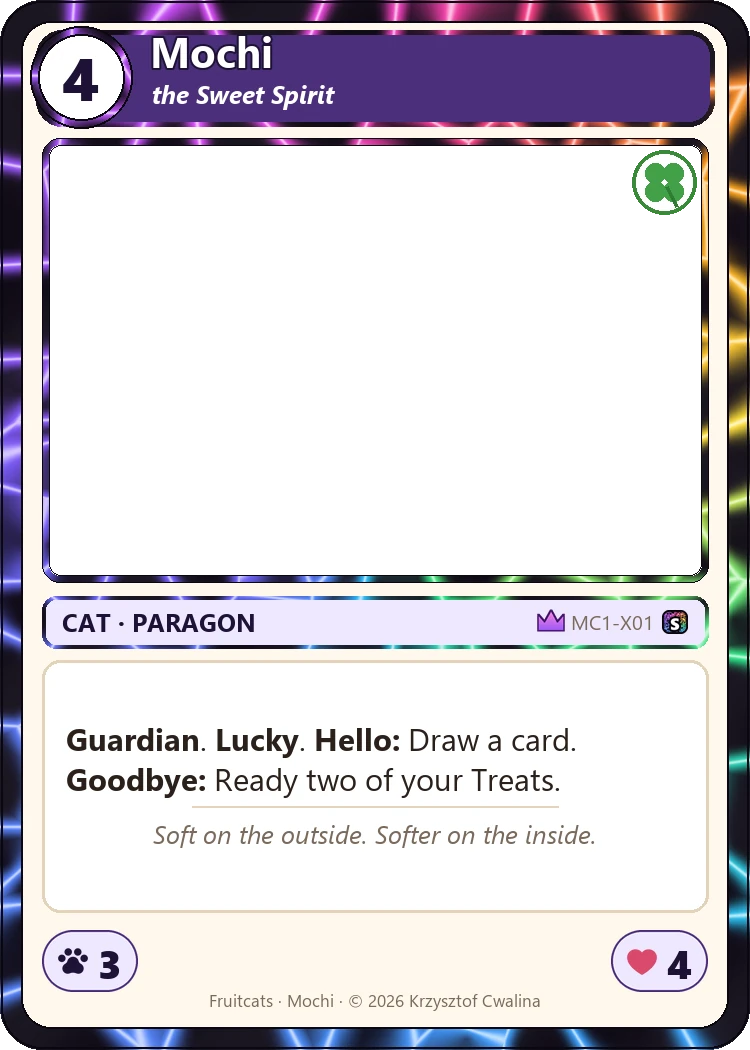
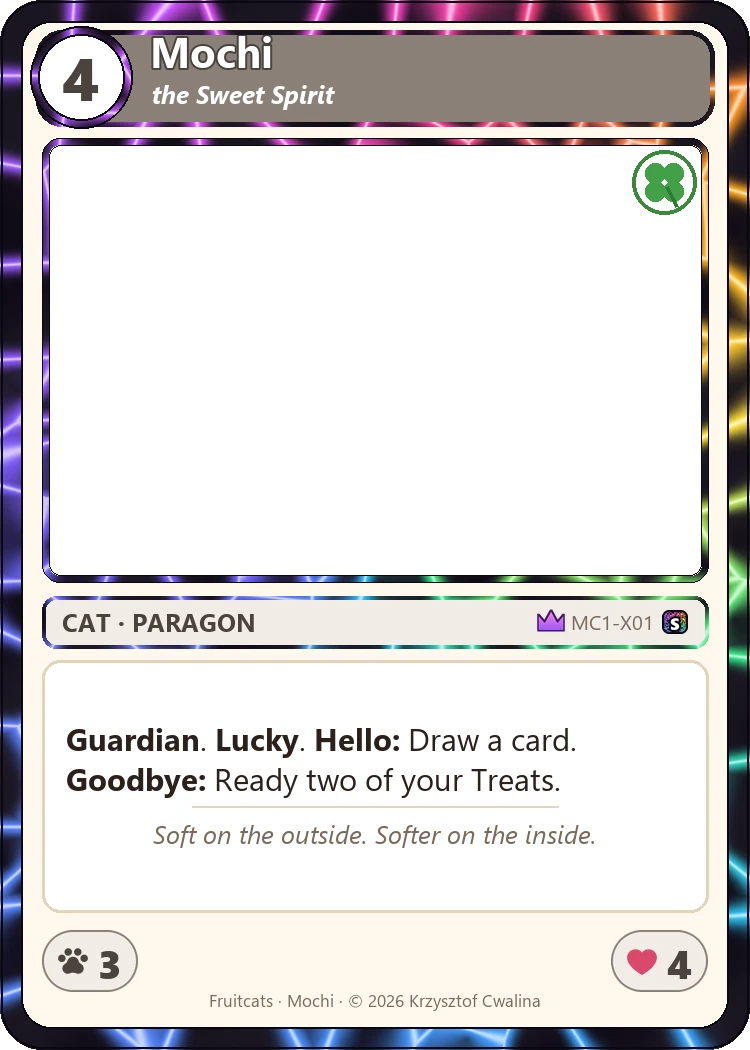
Studio: artists pick the frame colour for marked cards; Paragon has no colour of its own (its artist always picks); fix the picture page's layout class renamed by the image wording change

diff --git a/apps/web/src/studio/main.ts b/apps/web/src/studio/main.ts
@@ -17,7 +17,7 @@ import {
   FIELD_NAMES, STATE_NAMES, TIER_NAMES, keyOf, nextAction, nextPicture, overall, stateOf, steps, versionsOf,
   type Brief, type BriefPicture, type State,
 } from './brief';
-import { DEVICES, LOCK_CLOCK, announcementPreview, cardPreview, finishesOf, gamePreview, pawtraitPreview, wallpaper } from './previews';
+import { DEVICES, LOCK_CLOCK, PALETTES, announcementPreview, cardPreview, finishesOf, framePalettes, gamePreview, pawtraitPreview, wallpaper } from './previews';
 import { renderSignIn, signInClick, signInEnter, signInInput } from './signin';
 import { STUDIO_TERMS, STUDIO_TERMS_VERSION } from './terms';
 import './studio.css';
@@ -66,6 +66,8 @@ const S = {
   error: '',
   /** Signed in, but the Studio's server didn't answer. */
   unreachable: false,
+  /** Frame colours picked on this computer, before the server has them (by set/key). */
+  framePick: new Map<string, string>(),
   /** Which comment the walkthrough shows. */
   commentAt: 0,
   /** The terms screen: the "18 or older" box. */
@@ -325,7 +327,38 @@ function render() {
   void fillWallpapers();
 }
 
+/** For cards whose artist chooses the frame colour: the colour to show, picked or saved or the brief's starting one. */
+function syncPalettes() {
+  framePalettes.clear();
+  for (const [code, brief] of S.briefs) {
+    const view = S.views.get(code);
+    for (const p of brief.pictures) {
+      if (!p.frameChoice) continue;
+      const key = keyOf(p), id = `${code}/${key}`;
+      const saved = view?.pictures[key]?.frame;
+      const palette = S.framePick.get(id) ?? (saved === 'own' ? '' : saved) ?? p.framePalette;
+      if (palette) framePalettes.set(id, palette);
+    }
+  }
+}
+
+/** The frame colours for a card whose artist chooses them: a row of swatches. */
+function frameChooser(code: string, p: BriefPicture): string {
+  if (!p.frameChoice) return '';
+  const key = keyOf(p), current = framePalettes.get(`${code}/${key}`);
+  // Paragon cards have no colour of their own: the artist always picks. Other marked cards may keep their family's.
+  const own = p.family !== 'Paragon';
+  const text = own
+    ? '<b>Frame colour: you may change it.</b> This card isn’t tied to a deck’s look: keep its colour, or pick the one that suits your image.'
+    : current ? '<b>Frame colour: your pick.</b> Change it any time, to whatever suits your image.'
+      : '<b>Pick the frame colour for this card.</b> It has no colour of its own: choose the one that suits your image. Until you do, it’s shown in grey.';
+  return `<div class="frame-choice ${!own && !current ? 'unpicked' : ''}"><p>${text}</p>
+    <div class="swatches">${own ? `<button class="swatch family ${current ? '' : 'on'}" title="The card’s own colour" aria-label="The card’s own colour" data-click="frame:${key}:"><span>Own</span></button>` : ''}${PALETTES.map(([name, main, dark]) => `<button class="swatch ${name === current ? 'on' : ''}" title="${name}" aria-label="${name}"
+      style="background:linear-gradient(135deg, ${main} 55%, ${dark} 55%)" data-click="frame:${key}:${name}"></button>`).join('')}</div></div>`;
+}
+
 function page(): string {
+  syncPalettes();
   if (S.fatal) return `<main class="empty"><h1>Sorry</h1><p>${esc(S.fatal)}</p></main>`;
   if (S.booting) return `<main class="empty"><div class="spinner"></div></main>`;
   if (!S.me && !S.guest && S.unreachable && signedIn()) {
@@ -511,7 +544,7 @@ function wizardPage(code: string, chosen?: string): string {
         <div class="wz-upload">${fileNeeds}${uploadBox(current, versions)}</div>
       </div>
     </section>
-    ${pic.url ? `<section class="wz-card"><h2>How it looks</h2>${versionStrip(key, versions, pic)}${previewTabs(code, current, pic)}</section>` : ''}
+    ${pic.url ? `<section class="wz-card"><h2>How it looks</h2>${frameChooser(code, current)}${versionStrip(key, versions, pic)}${previewTabs(code, current, pic)}</section>` : ''}
     ${versions.length ? commentsPanel(code, current, pic.version) : ''}
   </main></div>`;
 }
@@ -665,7 +698,7 @@ function picturePage(code: string, key: string): string {
   const stepInfo = { open: at < 0 || all[at].open, after: at > 0 ? all[at - 1].milestone.title : '' };
   const i = brief.pictures.indexOf(p);
   const prev = brief.pictures[i - 1], next = brief.pictures[i + 1];
-  return `<main class="image">
+  return `<main class="picture">
     <aside class="brief">
       <div class="brief-head"><small>${esc(TIER_NAMES[p.tier])}${p.style ? ` · ${p.style === 'sticker' ? 'Sticker style' : 'Painted scene'}` : ''}${p.main ? ' · Main image' : ''}</small>
         <h1>${esc(title(p))}</h1>${sideLabel(p) ? `<p class="muted">${sideLabel(p)} form</p>` : ''}${stateChip(state)}</div>
@@ -731,7 +764,7 @@ function uploadBox(p: BriefPicture, versions: Version[]): string {
     const onCard = p.kind === 'card' || p.kind === 'token'
       ? `<div class="local-card">${cardPreview(code, key, finishesOf(p).at(-1)!.finish, local.url, 250)}</div>` : '';
     return `<div class="local">
-      ${onCard}
+      ${onCard}${frameChooser(code, p)}
       <p><b>${esc(local.file.name)}</b> · ${kb(local.file.size)}</p>
       <ul class="checks">${list.notes.map((n) => `<li>${esc(n)}</li>`).join('')}</ul>
       ${list.fix ? `<p class="fix">${esc(list.fix)}</p>` : ''}
@@ -824,7 +857,7 @@ function previewTabs(code: string, p: BriefPicture, pic: ReturnType<typeof shown
     const finishes = finishesOf(p);
     const finish = S.finish.get(key) ?? finishes.at(-1)!.finish;
     body = `${finishes.length > 1 ? `<div class="seg small">${finishes.map((f) => `<button class="${f.finish === finish ? 'on' : ''}" data-click="finish:${key}:${f.finish}">${f.label}</button>`).join('')}</div>` : ''}
-      <div class="card-stage">${cardPreview(code, key, finish, url, 420, pinsFor(code, key, pic.version))}</div>
+      ${frameChooser(code, p)}<div class="card-stage">${cardPreview(code, key, finish, url, 420, pinsFor(code, key, pic.version))}</div>
       <p class="pv-note">The card shows your whole image, shrunk into its window. The rounded corners and the border cover a few pixels at the edges.</p>`;
   } else if (tab === 'game') body = gamePreview(p, url, code, key);
   else {
@@ -1022,6 +1055,14 @@ async function act(action: string) {
       return;
     }
     case 'done': await work(() => api.markDone(code, args[0], args[1] === '1')); await refresh(code); render(); return;
+    case 'frame': {
+      // An empty palette is the card's own colour (its family's).
+      const id = `${code}/${args[0]}`, palette = args[1] ?? '';
+      S.framePick.set(id, palette);
+      render();
+      if (S.me && !S.guest) { try { await api.setFrame(code, args[0], palette || 'own'); await refresh(code); } catch (e) { S.error = api.explain(e); render(); } }
+      return;
+    }
     case 'walk': S.commentAt = Math.max(0, S.commentAt + Number(args[0])); render(); return;
     case 'walkdone': await work(() => api.markDone(code, args[0], true)); await refresh(code); render(); return;
     case 'walkreply': {

diff --git a/apps/api/src/studio/studio.ts b/apps/api/src/studio/studio.ts
@@ -17,6 +17,7 @@
 //   POST /v1/studio/{set}/pictures/{key}/comments        { text, version?, pin?: {x, y}, replyTo? }
 //   POST /v1/studio/{set}/comments/{id}                  { done }  mark a comment done (or not)
 //   POST /v1/studio/{set}/pictures/{key}/review          owner: { state: changes | sketch-ok | approved | waiting }
+//   POST /v1/studio/{set}/pictures/{key}/frame           { palette }  the frame colour the artist chose (cards that let them)
 //   POST /v1/studio/{set}/milestones/{id}                owner: { open } open a step early, or close it again
 //   POST /v1/studio/{set}/suggestions                    { picture, field, value, why? }
 //   POST /v1/studio/{set}/suggestions/{id}               owner: { state: accepted | declined, reply? }
@@ -27,7 +28,7 @@
 //
 // Rows, all in one table (partition | row key):
 //   artists|{set} | {userId}      invites | {code}      versions|{set} | {key}|{version}      states|{set} | {key}
-//   comments|{set} | {id}         suggestions|{set} | {id}      milestones|{set} | {id}      memberships | {userId}|{set}      terms | {userId}
+//   comments|{set} | {id}         suggestions|{set} | {id}      milestones|{set} | {id}      memberships | {userId}|{set}      terms | {userId}      frames|{set} | {key}
 // Pictures are blobs named {set}/{key}/{version}.{ext}, where a version is its upload time and the start of its hash.
 
 import { randomBytes, timingSafeEqual } from 'node:crypto';
@@ -114,9 +115,9 @@ export function studio(opt: StudioOptions) {
   // ── The set, as the Studio shows it ────────────────────────────────────────────────────────────
 
   async function setView(set: string) {
-    const [versions, states, comments, suggestions, milestones] = await Promise.all(
-      ['versions', 'states', 'comments', 'suggestions', 'milestones'].map((t) => store.list(`${t}|${set}`)));
-    const pictures: Record<string, { state: string; stateAt?: string; stateBy?: string; versions: Row[] }> = {};
+    const [versions, states, comments, suggestions, milestones, frames] = await Promise.all(
+      ['versions', 'states', 'comments', 'suggestions', 'milestones', 'frames'].map((t) => store.list(`${t}|${set}`)));
+    const pictures: Record<string, { state: string; stateAt?: string; stateBy?: string; frame?: string; versions: Row[] }> = {};
     const picture = (key: string) => (pictures[key] ??= { state: 'none', versions: [] });
     for (const v of versions) {
       const [key, version] = v.rk.split('|');
@@ -124,6 +125,7 @@ export function studio(opt: StudioOptions) {
       picture(key).versions.push({ ...row, id: version });
     }
     for (const s of states) Object.assign(picture(s.rk), { state: s.state, stateAt: s.at, stateBy: s.byName });
+    for (const f of frames) picture(f.rk).frame = String(f.palette);
     return {
       set,
       pictures,
@@ -261,6 +263,13 @@ export function studio(opt: StudioOptions) {
         await store.insert(`comments|${set}`, id, row);
         log('studio.commented', { set, key: b, author: row.author });
         return send(res, 201, { ...row, id });
+      }
+      if (cc === 'frame' && rest.length === 3 && method === 'POST') {
+        if (c.kind !== 'account') throw new HttpError(403, 'people_only');
+        const { palette } = await readJson(req) as { palette?: string };
+        if (typeof palette !== 'string' || !/^[a-z]{2,20}$/.test(palette)) throw new HttpError(422, 'bad_palette');
+        await store.upsert(`frames|${set}`, b, { palette, at: new Date().toISOString(), by: c.id, byName: c.name });
+        return send(res, 200, { palette });
       }
       if (cc === 'review' && rest.length === 3 && method === 'POST') {
         if (!owner || c.kind !== 'account') throw new HttpError(403, 'owner_only');

diff --git a/tools/studio.ts b/tools/studio.ts
@@ -50,7 +50,7 @@ async function call(path: string, init: { method?: string; json?: unknown } = {}
 const json = async <T>(path: string, init?: { method?: string; json?: unknown }) => (await call(path, init)).json() as Promise<T>;
 
 interface Version { id: string; kind: string; format: string; width: number; height: number; at: string; byName: string; note?: string }
-interface View { pictures: Record<string, { state: string; versions: Version[] }>; comments: { id: string; picture: string; author: string; authorName: string; text: string; at: string; done: boolean }[] }
+interface View { pictures: Record<string, { state: string; frame?: string; versions: Version[] }>; comments: { id: string; picture: string; author: string; authorName: string; text: string; at: string; done: boolean }[] }
 
 /** A set's folder in content/, by its code. */
 function setFolder(code: string): string {
@@ -136,6 +136,9 @@ async function main() {
     const brief = JSON.parse(readFileSync(join(folder, 'art', 'brief.json'), 'utf8')) as { pictures: { file: string; kind: string }[] };
     const view = await json<View>(set);
     let count = 0;
+    const setFile = join(folder, 'set.json');
+    const setData = JSON.parse(readFileSync(setFile, 'utf8')) as { cards: { id: string; frame?: string }[] };
+    let framesChanged = false;
     for (const p of brief.pictures) {
       const key = p.file.replace(/\.[a-z]+$/, '');
       const pic = view.pictures[key];
@@ -155,7 +158,16 @@ async function main() {
       }
       console.log(`${key}: version ${v.id} → ${relative(ROOT, out)}`);
       count++;
+      // A frame colour the artist chose goes into the card's data, so the finished card is drawn in it.
+      const card = setData.cards.find((c) => `${c.id}` === key || key.startsWith(`${c.id}-`));
+      const frame = pic.frame && pic.frame !== 'own' ? pic.frame : undefined;
+      if (card && card.frame !== frame) {
+        if (frame) card.frame = frame; else delete card.frame;
+        framesChanged = true;
+        console.log(`${card.id}: frame colour ${frame ?? 'its family’s own'}`);
+      }
     }
+    if (framesChanged) writeFileSync(setFile, `${JSON.stringify(setData, null, 2)}\n`);
     if (!count) { console.log('No approved pictures yet.'); return; }
     execFileSync('python', [join(ROOT, 'tools', 'compose_cards.py'), '--set', set], { stdio: 'inherit' });
     console.log(`\n${count} picture(s) pulled. Review with git diff, then npm run check-set -- ${set}.`);

diff --git a/apps/web/src/studio/previews.ts b/apps/web/src/studio/previews.ts
@@ -23,8 +23,20 @@ export function finishesOf(p: BriefPicture): { finish: string; label: string }[]
   return list;
 }
 
-const frameUrl = (code: string, key: string, finish: string) =>
-  `${BASE}cards/${code}/frames/${finish === 'standard' ? '' : `${finish}/`}${key}.webp`;
+/** Frame colours an artist may choose (compose_cards.py PALETTES): the name, and the colours shown on its swatch. */
+export const PALETTES: [string, string, string][] = [
+  ['midnight', '#2B3A55', '#141C2B'], ['sky', '#3B82C4', '#1D4A78'], ['violet', '#4A2F7A', '#1E1236'], ['berry', '#D6336C', '#8F1D46'],
+  ['orchard', '#D64545', '#8E2A2A'], ['pepper', '#D7261E', '#5A0E0A'], ['tropical', '#F2780C', '#A24E05'], ['citrus', '#F29F05', '#A86400'],
+  ['gold', '#C8961E', '#7A5A0C'], ['garden', '#5FA84D', '#3B7430'], ['melon', '#3FA66B', '#25714A'], ['ink', '#3A3A3A', '#161616'],
+];
+
+/** The frame colour each card is shown in, for cards whose artist chooses it: set by the Studio as it draws a page. */
+export const framePalettes = new Map<string, string>();
+
+const frameUrl = (code: string, key: string, finish: string) => {
+  const palette = framePalettes.get(`${code}/${key}`);
+  return `${BASE}cards/${code}/frames/${palette ? `p-${palette}/` : ''}${finish === 'standard' ? '' : `${finish}/`}${key}.webp`;
+};
 
 /** The picture on its card. With no picture yet, the window shows where it will go. */
 export function cardPreview(code: string, key: string, finish: string, art: string | null, width: number, pins = ''): string {

diff --git a/apps/web/src/studio/api.ts b/apps/web/src/studio/api.ts
@@ -53,7 +53,7 @@ export interface SetView {
   /** The signed-in account is this project's artist (a reviewer can be one too, e.g. to practise). */
   artist?: boolean;
   set: string;
-  pictures: Record<string, { state: string; stateAt?: string; stateBy?: string; versions: Version[] }>;
+  pictures: Record<string, { state: string; stateAt?: string; stateBy?: string; frame?: string; versions: Version[] }>;
   comments: Comment[];
   suggestions: Suggestion[];
   milestones: Record<string, boolean>;
@@ -110,6 +110,7 @@ export const setView = (set: string) => call<SetView>(set);
 export const comment = (set: string, key: string, body: { text: string; version?: string; pin?: { x: number; y: number }; replyTo?: string }) =>
   call<Comment>(`${set}/pictures/${key}/comments`, { json: body });
 export const markDone = (set: string, id: string, done: boolean) => call<Comment>(`${set}/comments/${id}`, { json: { done } });
+export const setFrame = (set: string, key: string, palette: string) => call<{ palette: string }>(`${set}/pictures/${key}/frame`, { json: { palette } });
 export const review = (set: string, key: string, state: string) => call(`${set}/pictures/${key}/review`, { json: { state } });
 export const openStep = (set: string, id: string, open: boolean) => call(`${set}/milestones/${id}`, { json: { open } });
 export const suggest = (set: string, body: { picture: string; field: string; value: string; why: string }) =>

diff --git a/apps/web/src/studio/studio.css b/apps/web/src/studio/studio.css
@@ -532,3 +532,14 @@ main.home, main.picture, main.artists, main.sets { animation: fade 0.2s ease-out
 .name-note { margin: -4px 0 10px; font-size: 14px; color: var(--ink-2); font-style: italic; }
 .kind-q { margin: 10px 0 6px; font-size: 15px; }
 .kind-seg.unset { outline: 2px solid #f6c79f; outline-offset: 2px; }
+
+/* The frame colour an artist chooses */
+.frame-choice { margin: 4px 0 14px; }
+.frame-choice p { margin: 0 0 8px; font-size: 14px; color: var(--ink-2); }
+.preview .frame-choice p { color: #eadbc8; }
+.swatches { display: flex; flex-wrap: wrap; gap: 8px; }
+.swatch { width: 30px; height: 30px; border-radius: 50%; border: 2px solid white; box-shadow: 0 1px 3px rgba(0, 0, 0, 0.25); cursor: pointer; padding: 0; }
+.swatch.on { outline: 3px solid var(--accent); outline-offset: 2px; }
+.swatch.family { background: var(--card); color: var(--ink-2); font: 800 9px Nunito, sans-serif; display: grid; place-items: center; }
+.frame-choice.unpicked { background: #fff7ec; border: 2px solid #f6c79f; border-radius: 12px; padding: 10px 14px; }
+.preview .frame-choice.unpicked p { color: var(--ink); }

diff --git a/content/check-set.ts b/content/check-set.ts
@@ -134,6 +134,10 @@ function checkSet(set: ContentSet, games: number): Report {
       if (!steps.has(String(p.milestone))) r.errors.push(`Art brief: ${p.file} is in step ${String(p.milestone)}, which isn't one of its milestones.`);
       if (!Array.isArray(p.size) || p.size.length !== 2) r.errors.push(`Art brief: ${p.file} needs a size, [width, height].`);
     }
+    const pickFamilies = new Set(Object.entries(data.families ?? {}).filter(([, f]) => (f as { frameChoice?: boolean }).frameChoice).map(([n]) => n));
+    for (const c of cards.filter((x) => pickFamilies.has(x.family)))
+      if (!pictures.some((p) => p.card === c.id && (p as { frameChoice?: boolean }).frameChoice))
+        r.errors.push(`Art brief: ${c.id} is ${c.family}, whose artist picks the frame colour; give its picture "frameChoice": true.`);
     const noFrame = faces.filter((f) => briefed.has(f) && !existsSync(join(art, 'cards', 'frames', `${f}.webp`)));
     if (noFrame.length) r.warnings.push(`No Studio frame for ${noFrame.join(', ')} (python tools/compose_cards.py --set ${code.toLowerCase()} --frames).`);
   }

diff --git a/apps/api/src/studio/studio.test.ts b/apps/api/src/studio/studio.test.ts
@@ -158,6 +158,13 @@ describe('studio', () => {
     expect((await call(OWNER, '/bp1/artists')).body.artists).toContainEqual(expect.objectContaining({ id: 'wanda', email: 'wanda@example.com' }));
   });
 
+  it('keeps the frame colour an artist chose', async () => {
+    const view = await call(OWNER, '/bp1/pictures/BP1-X01/frame', { json: { palette: 'midnight' } });
+    expect(view.body).toEqual({ palette: 'midnight' });
+    expect((await call(OWNER, '/bp1')).body.pictures['BP1-X01'].frame).toBe('midnight');
+    expect((await call(OWNER, '/bp1/pictures/BP1-X01/frame', { json: { palette: 'Not a name!' } })).status).toBe(422);
+  });
+
   it('removes an artist without losing their pictures', async () => {
     expect((await call(OWNER, '/bp1/artists/basil', { method: 'DELETE' })).status).toBe(200);
     expect((await call(ARTIST, '/bp1')).status).toBe(403);

diff --git a/apps/web/src/studio/brief.ts b/apps/web/src/studio/brief.ts
@@ -37,6 +37,10 @@ export interface BriefPicture {
   pawtrait?: string;
   family?: string;
   workingName?: string;
+  /** The artist chooses this card's frame colour (a card that isn't tied to a deck's look). */
+  frameChoice?: boolean;
+  /** With frameChoice: a colour to start in instead of the family's own (optional). */
+  framePalette?: string;
 }
 
 /** A picture's key: its file name without the extension (BP1-X03-kitten, legend-jam, key-art). */

diff --git a/tools/compose_cards.py b/tools/compose_cards.py
@@ -41,6 +41,23 @@ FAMILIES = {                            # main, dark, tint
     "Tropical": ("#F2780C", "#A24E05", "#FFE6CC"),
     "Melon":    ("#3FA66B", "#25714A", "#DDF3E6"),
 }
+# Frame colours an artist may choose for a card that isn't tied to a deck's look: "frameChoice" on its picture in the
+# set's brief, or on its family (Paragon has no colour of its own: its artist always picks).
+# A card that has chosen keeps it in its data: "frame": "<name>". The families' own colours, plus a few neutral ones.
+PALETTES = {
+    "citrus":   ("#F29F05", "#A86400", "#FFF1CC"),
+    "orchard":  ("#D64545", "#8E2A2A", "#FBE0DA"),
+    "tropical": ("#F2780C", "#A24E05", "#FFE6CC"),
+    "garden":   ("#5FA84D", "#3B7430", "#E3F2DC"),
+    "berry":    ("#D6336C", "#8F1D46", "#FBDDE7"),
+    "melon":    ("#3FA66B", "#25714A", "#DDF3E6"),
+    "pepper":   ("#D7261E", "#5A0E0A", "#FFD6C2"),
+    "violet":   ("#4A2F7A", "#1E1236", "#EFE8FF"),
+    "sky":      ("#3B82C4", "#1D4A78", "#E1EEFB"),
+    "midnight": ("#2B3A55", "#141C2B", "#E6ECF7"),
+    "gold":     ("#C8961E", "#7A5A0C", "#FFF3CF"),
+    "ink":      ("#3A3A3A", "#161616", "#EEEEEE"),
+}
 CREAM, INK, MUTED = "#FFF8EC", "#2B211B", "#7A6A5C"
 POWER_COLOR, HEALTH_COLOR = "#E4572E", "#E0457B"
 
@@ -343,7 +360,7 @@ def compose(card: dict, side: str | None, art_path: Path | None, finish: str = "
     """The card image. With no art_path, the picture's window is left transparent (a frame)."""
     if finish == SIGNATURE and card.get("signature") == "rainbow":
         finish = RAINBOW_SIGNATURE     # the rainbow Signature stone, printed where the card's Signature goes
-    main, dark, tint = FAMILIES[card["family"]]
+    main, dark, tint = PALETTES[card["frame"]] if card.get("frame") in PALETTES else FAMILIES[card["family"]]
     face = card[{"kitten": "kitten", "bigcat": "bigCat"}[side]] if side else card
     name = face["name"]
     text = face.get("text", "")
@@ -475,11 +492,15 @@ def frames(data: dict, set_path: Path, only: list[str] | None) -> int:
     """Each card face without its picture, in the finishes it's sold in: standard, plus the tier the set's
     brief gives it (foil, gold or signature). Tokens are standard only."""
     brief_path = set_path.parent / "art" / "brief.json"
-    tiers = {}
+    tiers, choice = {}, set()
     if brief_path.exists():
         for p in json.loads(brief_path.read_text(encoding="utf-8"))["pictures"]:
             if p.get("card"):
                 tiers[p["card"]] = p.get("tier")
+                if p.get("frameChoice"):
+                    choice.add(p["card"])
+    families = data.get("families", {})
+    choice |= {c["id"] for c in data["cards"] if families.get(c["family"], {}).get("frameChoice")}
     out_dir = set_path.parent / "art" / "cards" / "frames"
     count = 0
     for card in data["cards"] + [dict(t, token=True) for t in data.get("tokens", [])]:
@@ -498,6 +519,12 @@ def frames(data: dict, set_path: Path, only: list[str] | None) -> int:
                 path.parent.mkdir(parents=True, exist_ok=True)
                 compose(card, side, None, f).save(path, quality=90, method=6)
                 count += 1
+                # The artist chooses this card's frame colour: every palette, at frames/p-<name>/[finish/]<key>.
+                for name in (PALETTES if card["id"] in choice else ()):
+                    pp = out_dir / f"p-{name}" / (f"{key}.webp" if f == "standard" else f"{f}/{key}.webp")
+                    pp.parent.mkdir(parents=True, exist_ok=True)
+                    compose(dict(card, frame=name), side, None, f).save(pp, quality=90, method=6)
+                    count += 1
     print(f"drew {count} frame(s) into {out_dir.relative_to(ROOT)}")
     return 0
 
